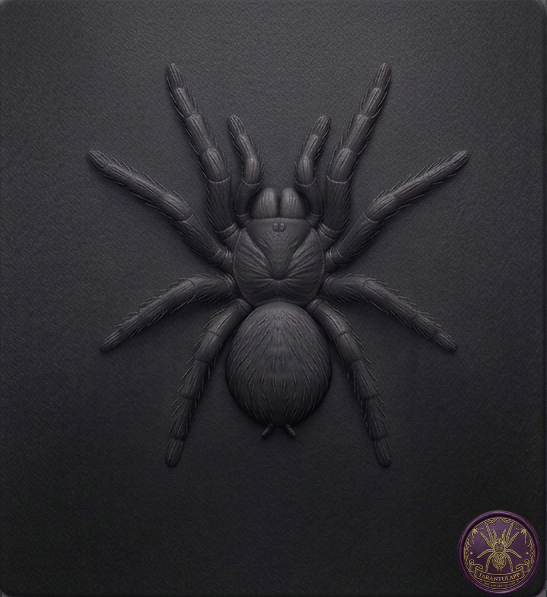
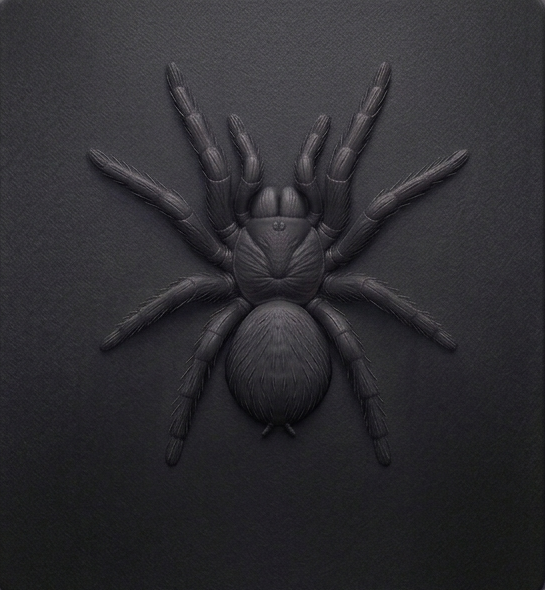
feat(ui): TarantulApp brand on collection cards, detail photo, and spider asset
Overlay logo in meta block for premium collection cards; corner mark on the specimen profile image with rem-based inset. Refreshed spider placeholder PNG.

Made-with: Cursor

diff --git a/frontend/src/components/TarantulaCard.jsx b/frontend/src/components/TarantulaCard.jsx
@@ -4,13 +4,16 @@ import StatusBadge from './StatusBadge'
 import FangPanel from './FangPanel'
 import { imgUrl } from '../services/api'
 import { publicUrl } from '../utils/publicAssets.js'
+import { useAppTheme } from '../hooks/useAppTheme'
 
 const HABITAT_ICON = { terrestrial: '🌎', arboreal: '🌳', fossorial: '🕳' }
 
 export default function TarantulaCard({ tarantula }) {
   const { t } = useTranslation()
+  const theme = useAppTheme()
   const { id, name, species, stage, sex, currentSizeCm, profilePhoto, status, locked } = tarantula
   const placeholder = publicUrl('spider-default.png')
+  const brandLogoSrc = publicUrl(theme === 'light' ? 'logo-black.png' : 'logo-neon.png')
   // Own upload first, then species reference (DB / iNat URL), then placeholder; broken URLs fall back on error.
   const primarySrc = profilePhoto
     ? imgUrl(profilePhoto)
@@ -33,7 +36,7 @@ export default function TarantulaCard({ tarantula }) {
           <div className="ta-premium-photo-overlay" />
           {!profilePhoto && species?.referencePhotoUrl?.trim() && (
             <span
-              className="position-absolute top-0 end-0 m-2 ta-premium-ref-chip"
+              className="position-absolute top-0 start-0 m-2 ta-premium-ref-chip"
               title={t('species.refPhoto')}
             >
               <span aria-hidden="true">📷</span>
@@ -60,13 +63,27 @@ export default function TarantulaCard({ tarantula }) {
                 <StatusBadge status={status} />
               </div>
             </div>
-            <div className="ta-premium-tech-line">
-              {stage && <span>{t(`stages.${stage}`, { defaultValue: stage })}</span>}
-              {currentSizeCm && <span>📏 {currentSizeCm} cm</span>}
-            </div>
-            <div className="ta-premium-tech-line">
-              {sex && <span>{t(`sex.${sex}`, { defaultValue: sex })}</span>}
-              {species?.habitatType && <span>{HABITAT_ICON[species.habitatType]}</span>}
+            <div className="d-flex justify-content-between align-items-end gap-2 mt-1 ta-premium-card-meta-lower">
+              <div className="min-w-0 flex-grow-1">
+                <div className="ta-premium-tech-line ta-premium-tech-line--first">
+                  {stage && <span>{t(`stages.${stage}`, { defaultValue: stage })}</span>}
+                  {currentSizeCm && <span>📏 {currentSizeCm} cm</span>}
+                </div>
+                <div className="ta-premium-tech-line">
+                  {sex && <span>{t(`sex.${sex}`, { defaultValue: sex })}</span>}
+                  {species?.habitatType && <span>{HABITAT_ICON[species.habitatType]}</span>}
+                </div>
+              </div>
+              <img
+                src={`${brandLogoSrc}?v=2`}
+                alt=""
+                className="ta-tarantula-card-brand-mark flex-shrink-0"
+                width={44}
+                height={44}
+                loading="lazy"
+                decoding="async"
+                aria-hidden
+              />
             </div>
           </div>
         </div>

diff --git a/frontend/src/pages/TarantulaDetailPage.jsx b/frontend/src/pages/TarantulaDetailPage.jsx
@@ -18,6 +18,7 @@ import tarantulaService from '../services/tarantulaService'
 import logsService from '../services/logsService'
 import { imgUrl } from '../services/api'
 import { publicUrl } from '../utils/publicAssets.js'
+import { useAppTheme } from '../hooks/useAppTheme'
 import { PARCHMENT_HISTORY_PAGE_SIZE } from '../constants/parchmentHistory.js'
 import { formatDateInUserZone } from '../utils/dateFormat'
 import { exportTarantulaPdf } from '../services/pdfExportService'
@@ -29,6 +30,7 @@ export default function TarantulaDetailPage() {
   const { id } = useParams()
   const navigate = useNavigate()
   const { t, i18n } = useTranslation()
+  const theme = useAppTheme()
   const { user } = useAuth()
   const hasProFeatures = user?.hasProFeatures === true
 
@@ -127,6 +129,7 @@ export default function TarantulaDetailPage() {
   const displayProfilePhoto = tarantula.profilePhoto
     ? imgUrl(tarantula.profilePhoto)
     : imgUrl(species?.referencePhotoUrl) || spiderPlaceholder
+  const brandLogoSrc = publicUrl(theme === 'light' ? 'logo-black.png' : 'logo-neon.png')
 
   // ─── Terrarium recommendation ──────────────────────────────────────────────
   const terrariumRec = computeTerrariumRecommendation(tarantula.currentSizeCm, species)
@@ -195,8 +198,10 @@ export default function TarantulaDetailPage() {
             <FangPanel>
             <div className="card border-0 shadow-sm ta-premium-pane">
               {/* Foto */}
-              <div className="d-flex align-items-center justify-content-center overflow-hidden rounded-top"
-                   style={{ height: 220, background: 'linear-gradient(135deg,#0c0c1e,#1a1040)' }}>
+              <div
+                className="d-flex align-items-center justify-content-center overflow-hidden rounded-top position-relative ta-tarantula-detail-photo-stage"
+                style={{ height: 220, background: 'linear-gradient(135deg,#0c0c1e,#1a1040)' }}
+              >
                 <img
                   src={displayProfilePhoto}
                   alt={tarantula.name}
@@ -205,6 +210,16 @@ export default function TarantulaDetailPage() {
                     e.currentTarget.onerror = null
                     e.currentTarget.src = spiderPlaceholder
                   }}
+                />
+                <img
+                  src={`${brandLogoSrc}?v=2`}
+                  alt=""
+                  className="ta-tarantula-detail-brand-mark"
+                  width={48}
+                  height={48}
+                  loading="lazy"
+                  decoding="async"
+                  aria-hidden
                 />
               </div>
 

diff --git a/frontend/src/index.css b/frontend/src/index.css
@@ -1734,6 +1734,43 @@ details.ta-marketplace-official-apply-details > summary::-webkit-details-marker 
   position: absolute;
   inset: 0;
   background: linear-gradient(to top, rgba(0, 0, 0, 0.9) 0%, rgba(0, 0, 0, 0.5) 40%, transparent 75%);
+  z-index: 1;
+}
+
+/* Marca TarantulApp en tarjeta de colección: bloque inferior derecho, alineada con las líneas técnicas (debajo del badge) */
+.ta-premium-tarantula-card .ta-tarantula-card-brand-mark {
+  width: 44px;
+  height: 44px;
+  object-fit: contain;
+  opacity: 0.9;
+  filter: drop-shadow(0 1px 3px rgba(0, 0, 0, 0.5));
+  user-select: none;
+  /* Un poco de aire respecto al borde de la tarjeta, sin pegarse a la esquina */
+  margin-bottom: 0.1rem;
+  margin-left: 0.35rem;
+}
+
+/* Ficha de detalle: marca sobre la foto, casi en la esquina inferior-derecha (aire fijo, no % que lo centra) */
+.ta-tarantula-detail-photo-stage {
+  position: relative;
+}
+
+.ta-tarantula-detail-brand-mark {
+  position: absolute;
+  right: 0.6rem;
+  bottom: 0.55rem;
+  width: 48px;
+  height: 48px;
+  object-fit: contain;
+  z-index: 2;
+  opacity: 0.9;
+  filter: drop-shadow(0 1px 4px rgba(0, 0, 0, 0.55));
+  pointer-events: none;
+  user-select: none;
+}
+
+.ta-premium-card-meta-lower {
+  min-height: 3.25rem;
 }
 
 .ta-premium-card-meta {
@@ -1741,7 +1778,7 @@ details.ta-marketplace-official-apply-details > summary::-webkit-details-marker 
   left: 0;
   right: 0;
   bottom: 0;
-  z-index: 2;
+  z-index: 4;
   padding: 0.85rem;
 }
 
@@ -1766,7 +1803,12 @@ details.ta-marketplace-official-apply-details > summary::-webkit-details-marker 
   font-size: 0.84rem;
 }
 
+.ta-premium-card-meta-lower .ta-premium-tech-line--first {
+  margin-top: 0;
+}
+
 .ta-premium-ref-chip {
+  z-index: 3;
   display: inline-flex;
   align-items: center;
   justify-content: center;
